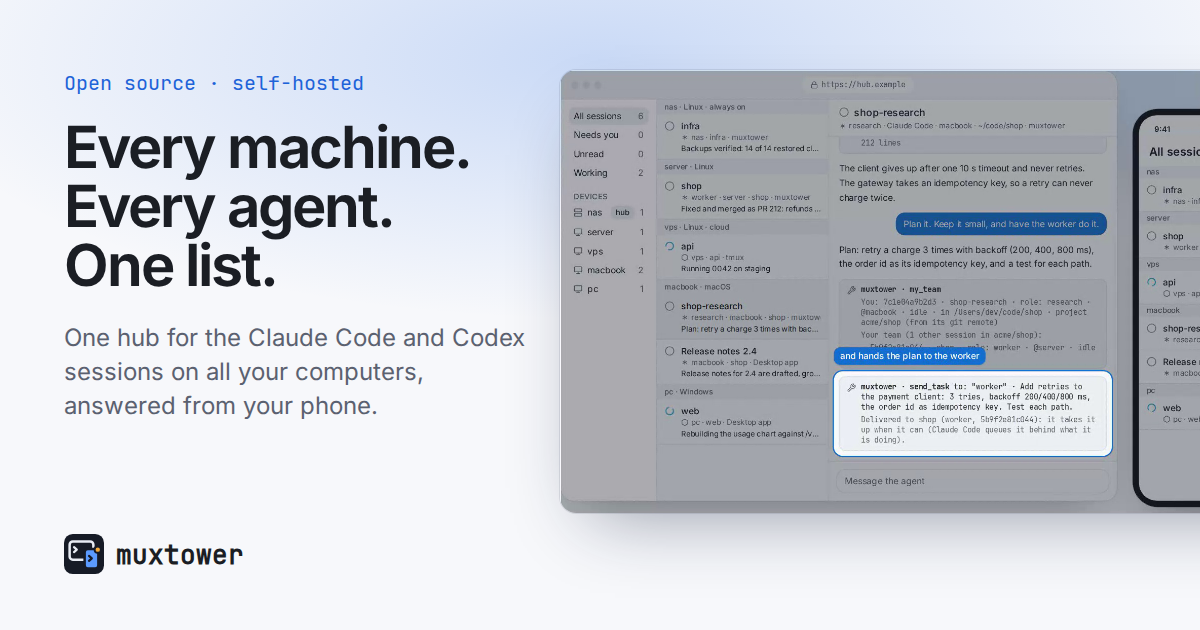
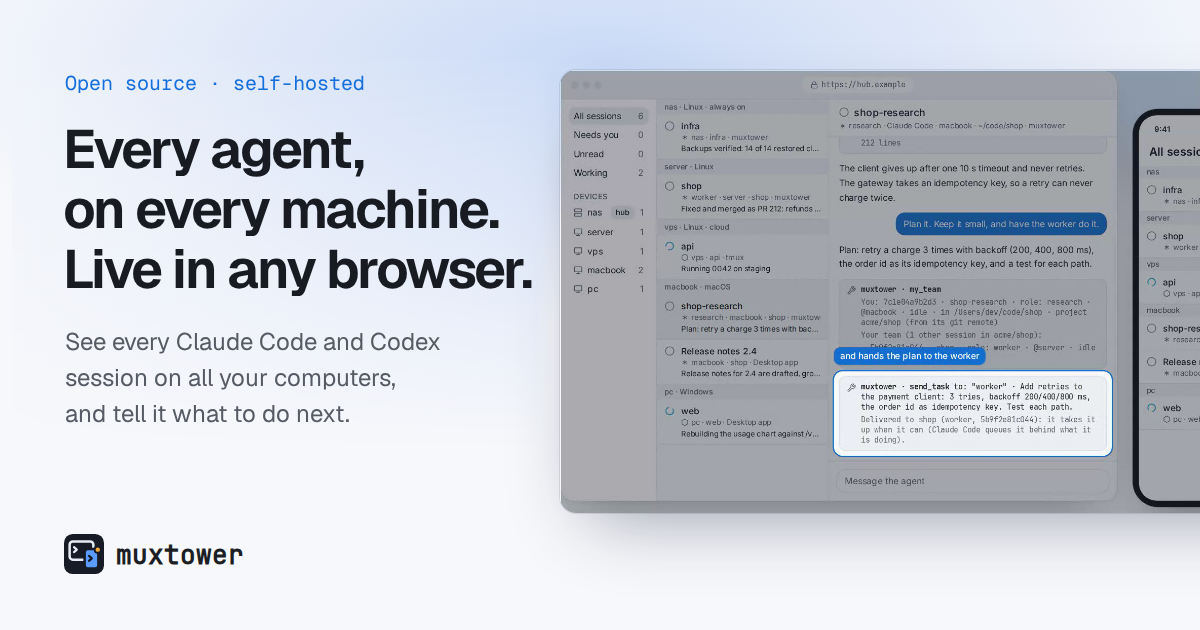
README: lead with every agent's live state and directing them, not approvals
Claude-Session: https://claude.ai/code/session_01VDqNLATd5dXjnWh7fqDr5Q

Changed region(s): [[0.0308, 0.181, 0.4317, 0.4825], [0.0308, 0.5127, 0.4317, 0.6937], [0.0617, 0.1206, 0.3083, 0.1508]]

diff --git a/README.md b/README.md
@@ -4,7 +4,7 @@
 
 <h1 align="center">muxtower</h1>
 
-<p align="center"><b>Approve and drive the coding agents running on your machines, from your phone.</b></p>
+<p align="center"><b>See and direct the coding agents on all your machines, from any browser or your phone.</b></p>
 
 <p align="center">
   <a href="https://pypi.org/project/muxtower/"><img src="https://img.shields.io/pypi/v/muxtower?style=flat-square" alt="PyPI"></a>
@@ -19,12 +19,13 @@
 </p>
 
 <p align="center">
-  <img src="docs/media/hero.png" width="720" alt="Every machine. Every agent. One list. The sessions of every computer in one list, a conversation open beside it, and the same list on a phone">
+  <img src="docs/media/hero.png" width="720" alt="Every agent, on every machine. Live in any browser. The sessions of every computer in one list, a conversation open beside it, and the same list on a phone">
 </p>
 
-muxtower is a small daemon that runs next to your agents (Claude Code, Codex, …) in tmux. It knows which one is waiting on you and for what, and serves a web app for your phone: approve, answer, read and type into any session, on any of your computers.
+muxtower is a small daemon that runs next to your agents (Claude Code, Codex, …). It shows what every session on every computer is doing, live, in a web app that works in any browser and installs on your phone, and lets you talk to any of them from there.
 
-- **Knows what each agent is asking.** Claude Code and Codex report through their own hooks, so a permission prompt arrives with the exact command; anything else is read off the screen with rules you can edit.
+- **Every agent's state, live.** Working, waiting on you, or done. Claude Code and Codex report through their own hooks; other terminal agents are read with rules you can edit.
+- **Direct any of them from anywhere.** Read the conversation, reply to a line, type or speak (Live), and get a push when one is done or needs you.
 - **Teams of agents.** Each session has a role and a project; agents find each other with `my_team` and hand each other work with `send_task`, on one machine or across several.
 - **All your computers in one list.** Join them to one hub; a laptop needs no address of its own, and while the hub restarts the app reaches the others directly.
 - **Yours to host.** One `pipx install`, and the daemon serves the app itself. No account, no cloud service; every device has its own revocable token.
